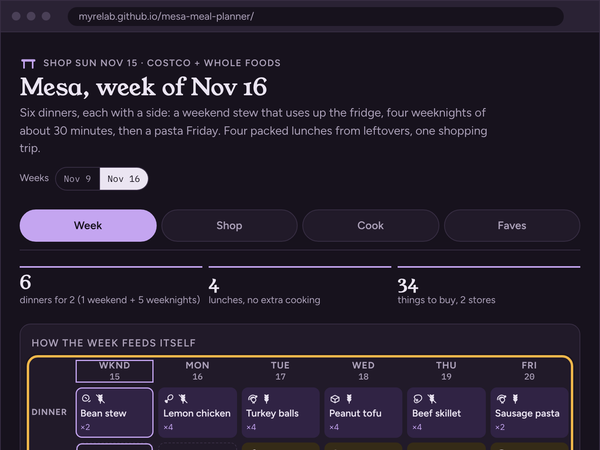
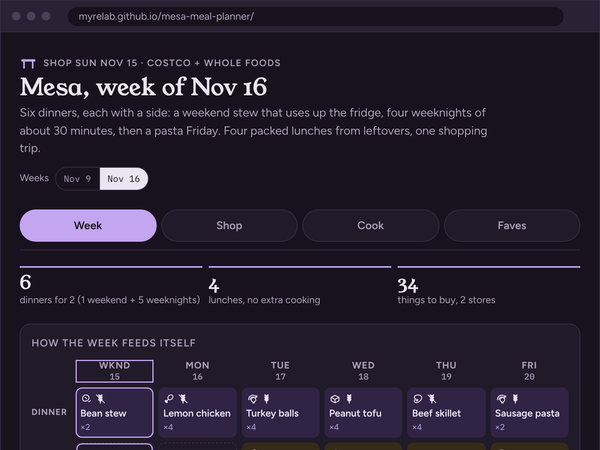
Use a Mesa thumbnail without the highlight ring (#9)
* Use a Mesa thumbnail without the highlight ring

Capture the Week tab again without the ring the screenshot script draws,
keep the ringed version in deprecated, and shorten the first sentence of
the description.

* Use "View on GitHub" for the semaglutide-spread link

Changed region(s): [[0.03, 0.7778, 0.96, 1.0]]

diff --git a/index.html b/index.html
@@ -99,7 +99,7 @@
                                         <span class="badge badge-theme">2026</span>
                                     </h3>
                                     <p class="mb-2">This data engineering project tracks semaglutide like an epidemic: who prescribed it first, how fast it spread, and where. Python pipelines download and validate data covering 9.4 billion Medicare claims and 12.2 billion UK prescriptions into Parquet, and dbt models in DuckDB turn it into adoption curves and maps. Each build runs 138 data tests and 109 code tests, and GitHub Actions checks every pull request.</p>
-                                    <p><a class="more-link" href="https://github.com/MyreLab/semaglutide-spread" target="_blank"><i class="fab fa-github-alt"></i>Follow on GitHub</a></p>
+                                    <p><a class="more-link" href="https://github.com/MyreLab/semaglutide-spread" target="_blank"><i class="fab fa-github-alt"></i>View on GitHub</a></p>
                                 </div><!--//desc-->
                             </div><!--//item-->
 
@@ -111,7 +111,7 @@
                                     <h3 class="title"><a href="https://github.com/MyreLab/mesa-meal-planner" target="_blank">Mesa: Meal Plans Written by AI, Validated by Code</a>
                                         <span class="badge badge-theme">2026</span>
                                     </h3>
-                                    <p class="mb-2">An AI tool plans my weekly meals and shopping lists in a scheduled job. Behind the scenes, a small data pipeline checks each plan against a set of rules before meals reach the dashboard, and tests run in GitHub Actions to check every code change. JavaScript, JSON Schema, GitHub Actions.</p>
+                                    <p class="mb-2">An AI tool plans my weekly meals &amp; shopping lists in a scheduled job. Behind the scenes, a small data pipeline checks each plan against a set of rules before meals reach the dashboard, and tests run in GitHub Actions to check every code change. JavaScript, JSON Schema, GitHub Actions.</p>
                                     <p><a class="more-link" href="https://github.com/MyreLab/mesa-meal-planner" target="_blank"><i class="fab fa-github-alt"></i>View on GitHub</a><a class="more-link ms-4" href="https://myrelab.github.io/mesa-meal-planner/" target="_blank"><i class="fas fa-external-link-alt"></i>Live demo</a></p>
                                 </div><!--//desc-->
                             </div><!--//item-->
